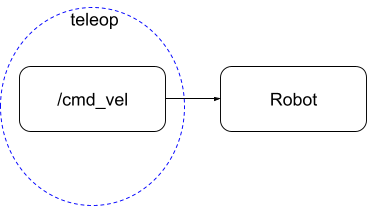
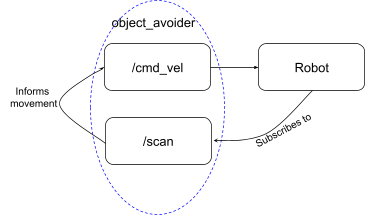
Update README

diff --git a/README.md b/README.md
@@ -7,7 +7,7 @@ The teleop node controls the robot’s forward, backwards, left, and right movem
 
 Our strategy at a high level was understanding the robots coordinate system. Once we had a good understanding of how it moved, we could send velocity commands using twist and publisher. We wanted clean movements so we set linear velocity to zero when it was turning and the angular velocity to zero when it was moving forward and backward. 
 
-![](images/image1.png)
+![](images/image6.png)
 ### DRIVE SQAURE
 The drive square node commands the robot to draw a one meter square. The movement was hard coded based on speed and time. The robot moves forward 1 meter at a set speed for a set time then turns 90 degrees four times within a for loop. The time was calculated by dividing the distance or angle by the current speed. 
 
@@ -16,17 +16,20 @@ Angle / angular speed = time
 
 A limitation of the time calculations is it assumes the robot goes from 0 to the set velocity instantaneously as opposed to accelerating up to the speed, thus the time calculation is slightly lower than the true time it takes to turn or move 1 meter. The time difference was noticeable in the 90 degrees turns, so we added an acceleration time that adds more time to allow the robot to complete the full turn. The acceleration time was calculated through trial and error. 
 
-![](images/image2.png)
+![](images/image4.png)
 
 ### WALL FOLLOWER
 The wall follower node allows the robot to sense the wall nearest to its right, and drive parallel to it.
 The node subscribes to the /scan topic to access the robot laser scan, and publishes to /cmd_vel. 
 Our strategy was to have the robot look at the laser scanner message at both 45 and 135 degrees (relative to the robot's coordinate frame) in order to find how far away it is from the wall. Using trigonometry, the robot calculates the (x,y) coordinates of the wall vector relative to the robot, and shifts the vector over the robot plane. After calculating the difference between the angle of the wall and its own angle relative to the robot's frame, it rotates itself by the value to face a parallel path to the wall and rolls ahead indefinitely. 
 The trickiest part of this implementation was trying to get our math to work. The robot has to calculate the vector of the wall in terms of coordinates, which requires trigonometry. We had to work out the math on paper before even attempting to code it, and even with the code we ran into many technical errors that combined logical, math mistakes and coding mistakes, which made it more difficult to debug. 
+
+![](images/photo_5.jpg)
+
 The primary limitation of this node is that it can only sense a wall to its left, and only two angles are used to sense the wall for the sake of the math used to determine the angle the robot must rotate. One of the angles is further behind the robot than the first angle, and should the wall be too short, behind the robot, it will fail to sense it correctly and make the calculations wrong.
 
 
-![](images/image3.png)
+![](images/image1.png)
 ### PERSON FOLLOWER
 The person follower node allows the robot to sense the closest "person" within 3m of it, then turn/drive towards it. The node subscribes to the /scan topic to access the robot laser scan, and publishes to /cmd_vel to command the robot how to move.
 The bot iterates through each angle of the lidar data, and saves only the angle of which the closest distance was scanned. Using this, the robot will gauge which side of the robot this closest object was, then begin to turn to face that direction. Once it senses that this closest object is in front of it, it will start to drive forwards.
@@ -35,15 +38,16 @@ The primary limitation of this node is that it cannot determine what is an objec
 
 For each behavior, describe the problem at a high-level. Include any relevant diagrams that help explain your approach. Discuss your strategy at a high-level and include any tricky decisions that had to be made to realize a successful implementation.
 
-![](images/image4.png)
+![](images/image2.png)
 ### OBJECT AVOIDANCE
 We implemented the object avoidance node for the robot to avoid any object that is within 5 meters of its front side. The node subscribes to the /scan topic to access the robot laser scan, and publishes to /cmd_vel to command the robot how to move. 
 The bot was implemented similarly to person follower, but with a reversed behavior. The bot would sense if there was an object within 5 meters of the front side, specifically a 40 degree range about 0 degrees. Should it sense an object, it would then determine if the object was more towards its left or right (this can be determined given the angle saved is from 0-20 degrees, meaning the object is on its left, or 340-361 degrees, meaning the object is on its right). Depending on which side the object was more towards, the robot would turn towards its opposite direction until the object was out of its front sight. Only then would it continue driving forward. 
 The trickiest part of implementing this was actually trying to determine the best way to implement this task. Because of the possible complexity this problem could have, we had to decide what is the best way to simplify this problem to a more solvable manner, and how much abstraction is still enough for the code to still technically do the task it was asked. 
-
+![](images/image3.png)
 ### FINITE STATE CONTROLLER
 The behavior of our finite state controller was to combine person follower and obstacle avoidance. The states were “predator” where it tried to reach the closest object and “prey” where it would try to run from the other objects. We combined the code by creating a state variable, and nesting each state’s code within an if statement that checks the state. The if statement is within the run loop and within the parse_scans methods since the different states used different techniques to read the lidar scan. We detected the transition between states when the robot is less than 0.3 meters away from its object. The initial inspiration behind the states was tag. 
-
+![](images/image5.png)
+![](images/image7.png)
 ### CODE STRUCTURE
  
 ### CHALLENGES
